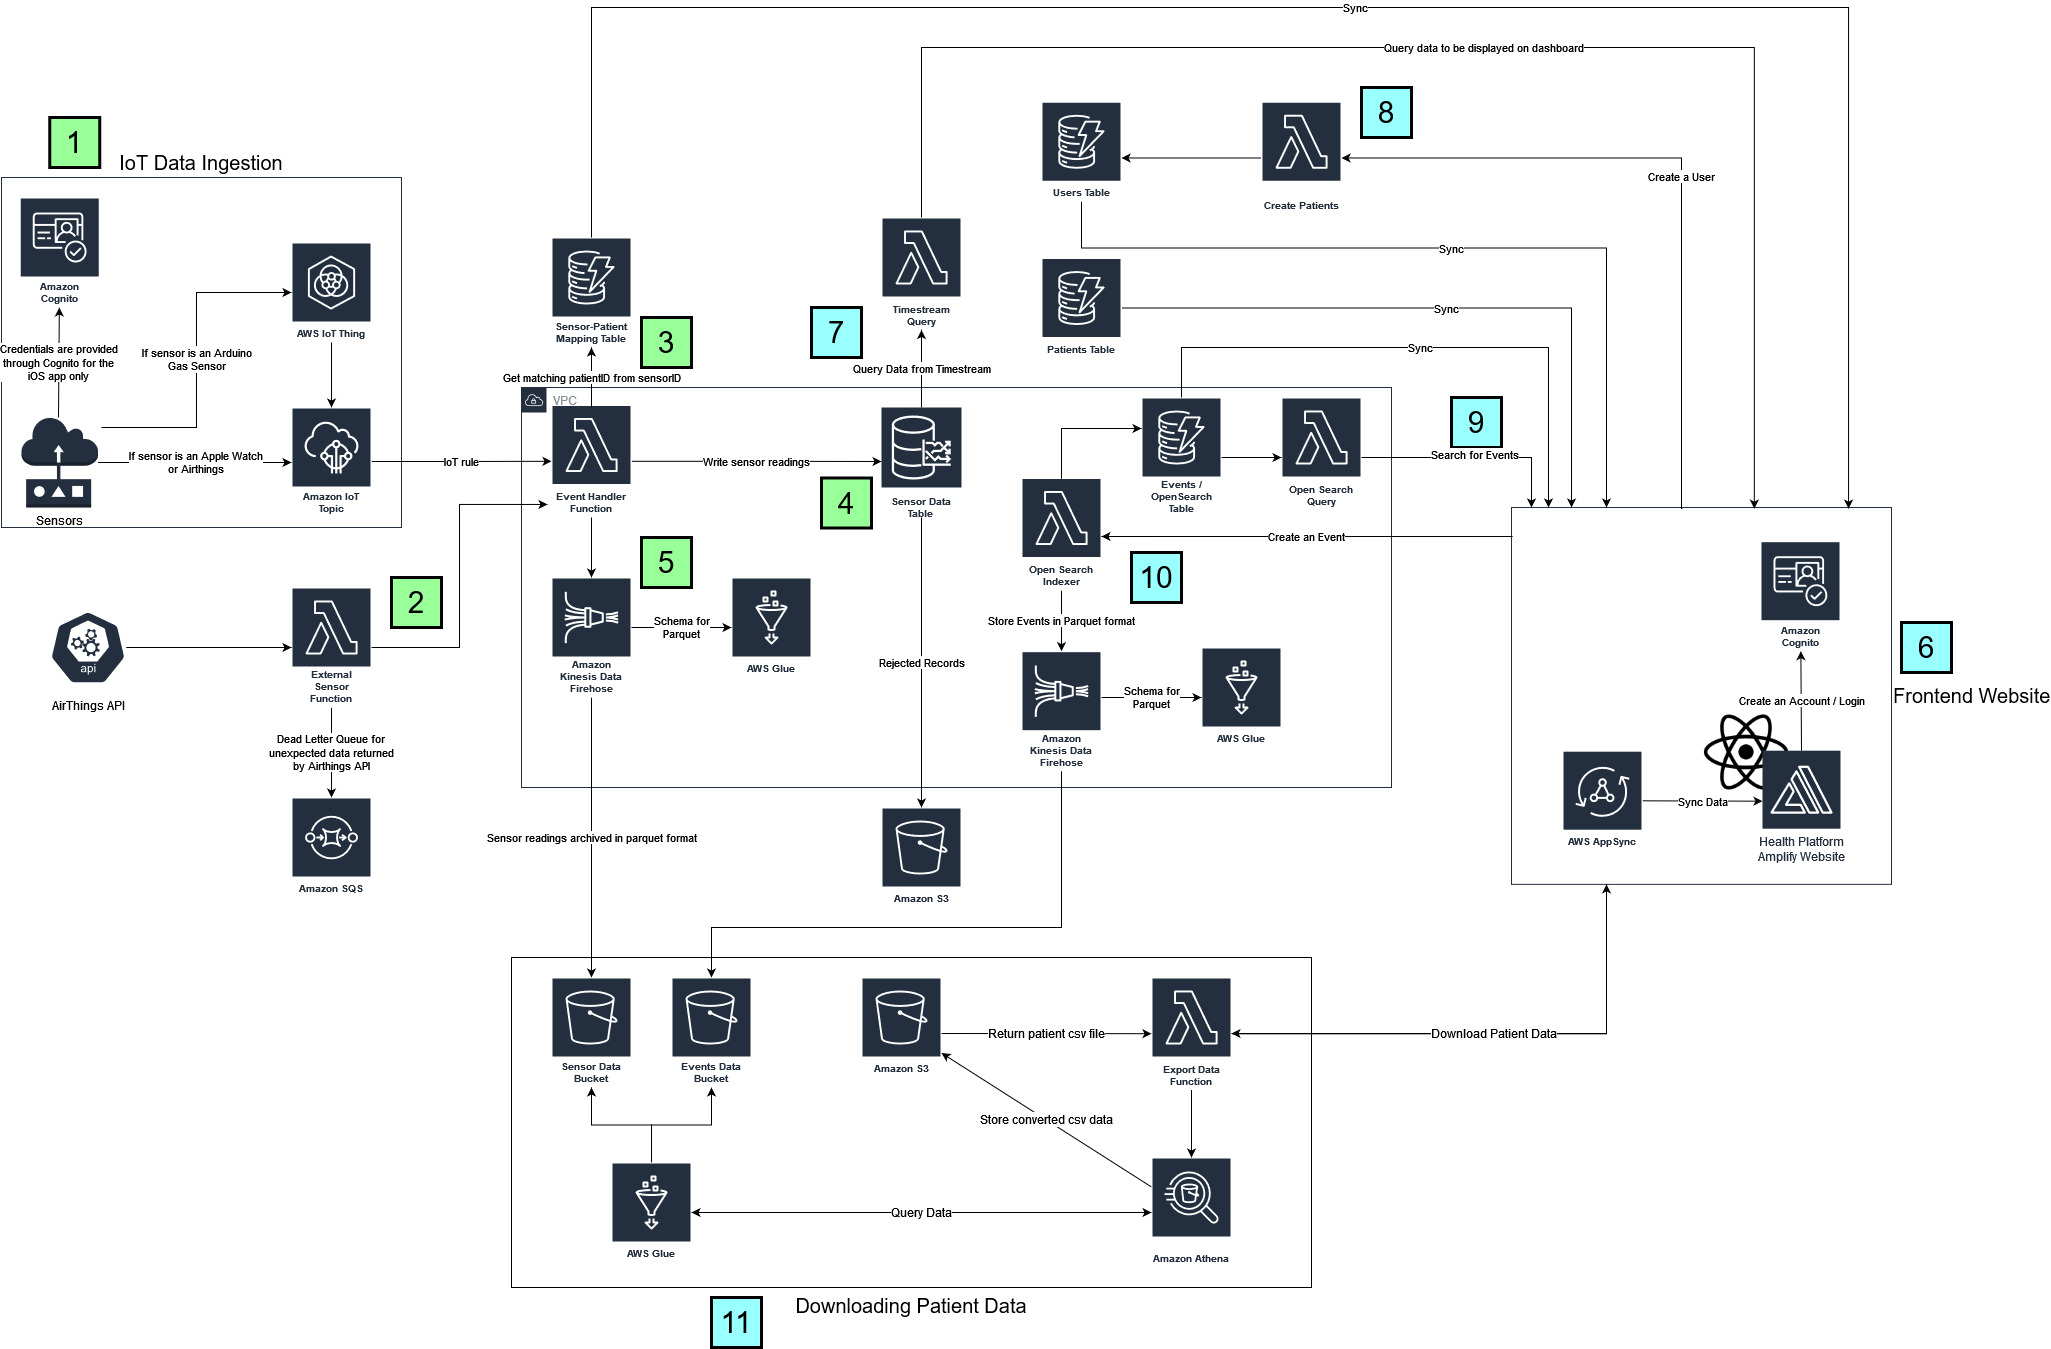
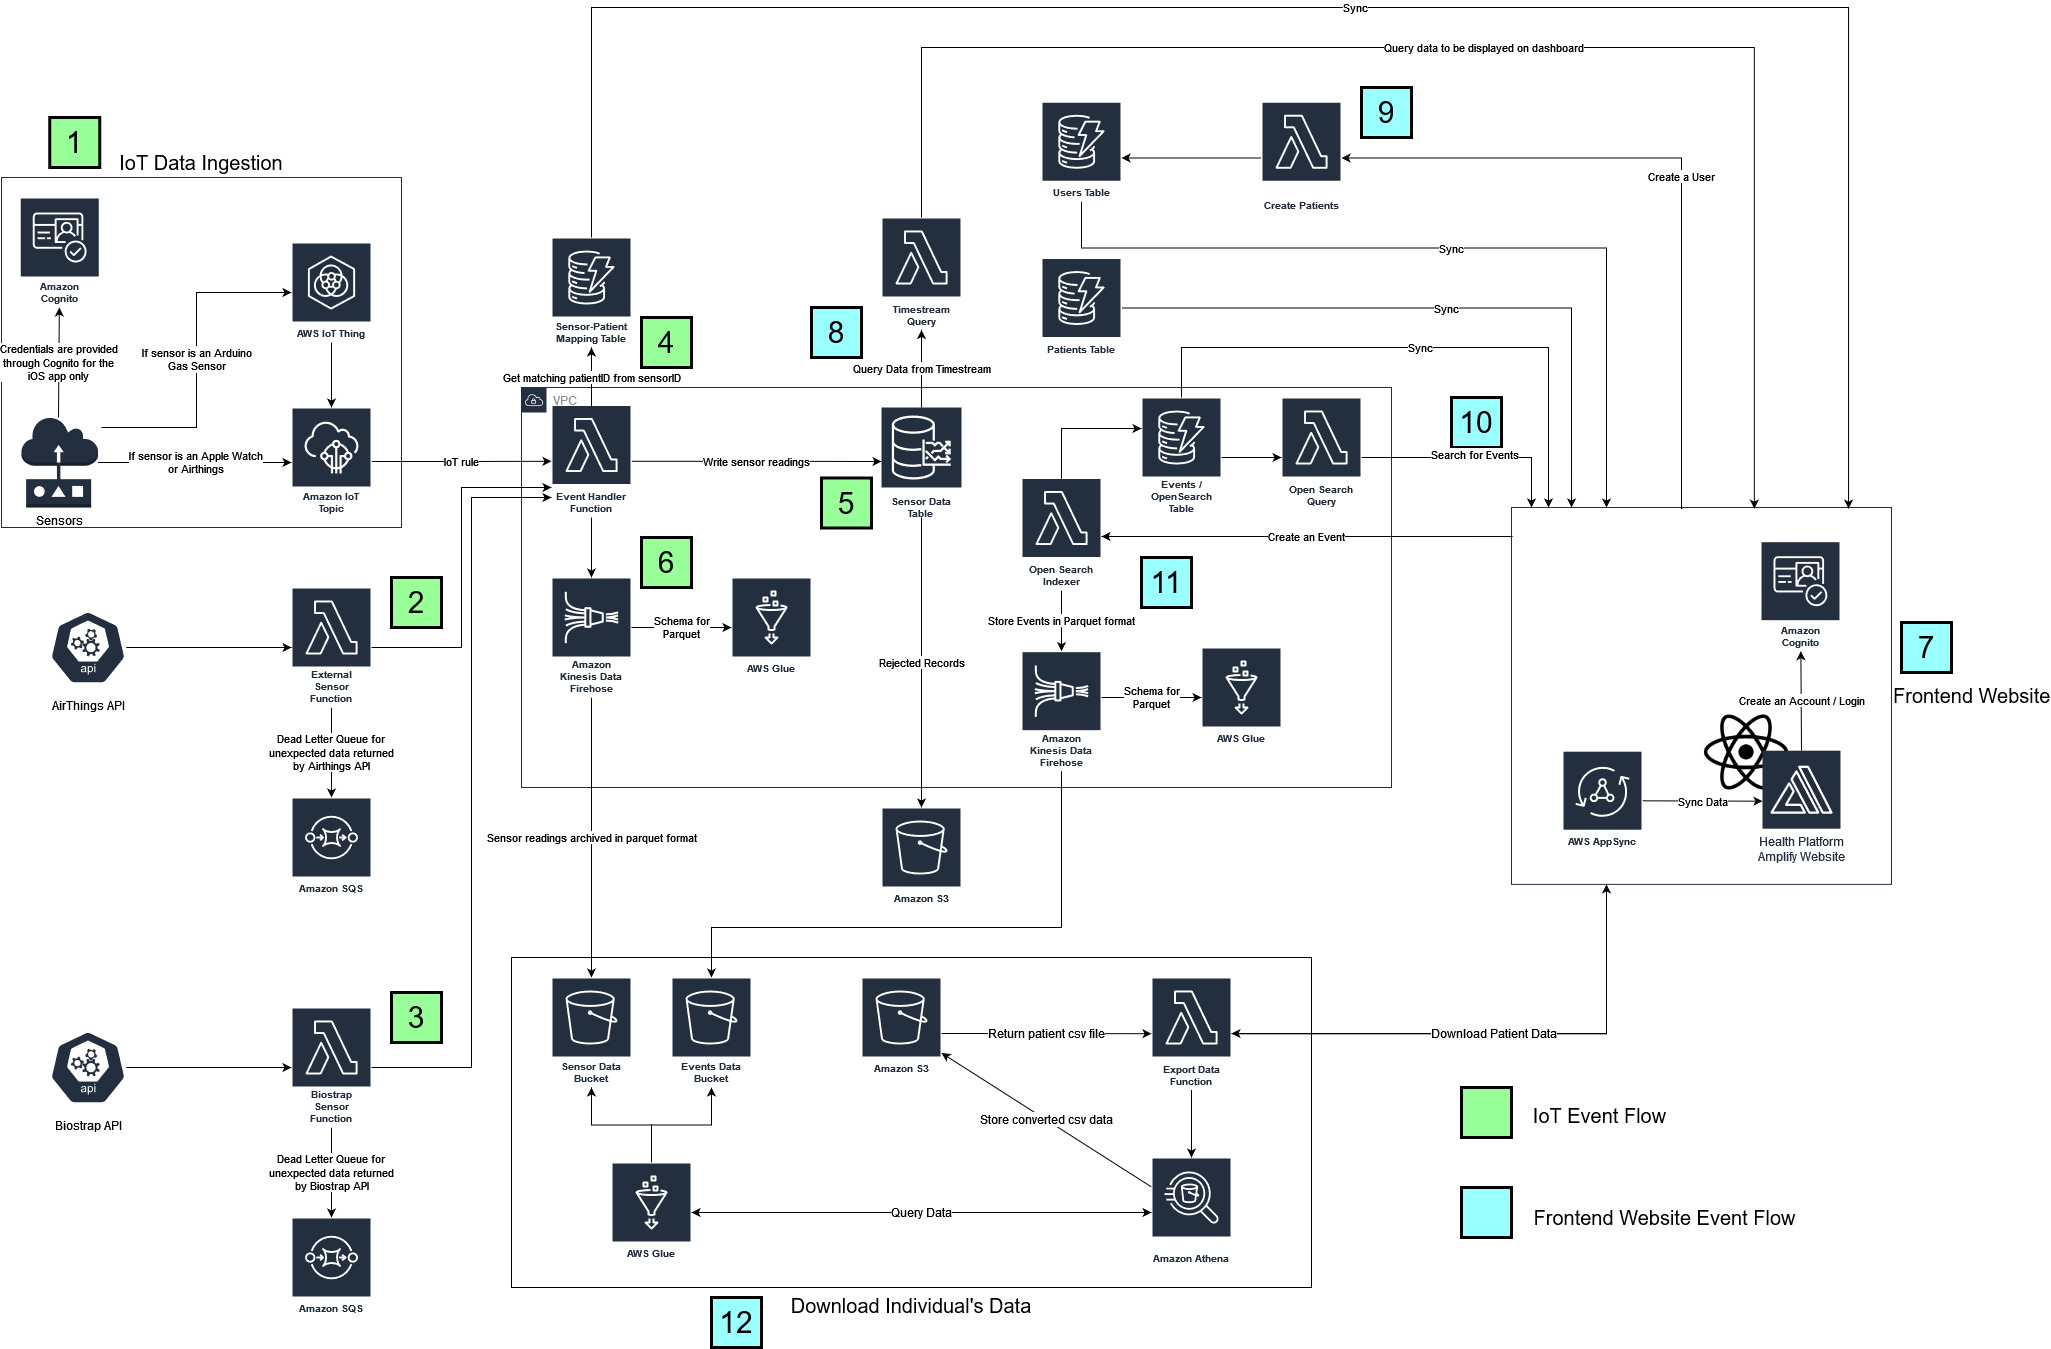
Adding Biostrap Integration

diff --git a/webapp/frontend/src/components/patients/ManageSensors.tsx b/webapp/frontend/src/components/patients/ManageSensors.tsx
@@ -28,10 +28,12 @@ const MenuProps = {
 };
 
 export const AIRTHINGS_WAVEPLUS = "AIRTHINGS_WAVEPLUS";
+export const BIOSTRAP = "BIOSTRAP"
 export const SENSORS = [
     {"name": "Apple Watch", "id": "AppleWatch"},
     {"name": "Gas Sensor", "id": "GasSensor"},
     {"name": "Airthings Wave Plus", "id": AIRTHINGS_WAVEPLUS},
+    {"name": "Biostrap", "id": BIOSTRAP},
 ];
 
 function getStyles(name: any, personName: any, theme: any) {
@@ -113,6 +115,13 @@ export const ManageSensors = (props: { patientId: string, patient: PatientsDetai
             } else if (sensorTypes.includes(AIRTHINGS_WAVEPLUS)) {
                 newSensor.sensor_types = [AIRTHINGS_WAVEPLUS]
                 newSensor.watermark = new Date(0).toISOString();
+                newSensor.client_key = clientKey;
+                newSensor.secret_key = clientSecretKey;
+            } else if (sensorTypes.includes(BIOSTRAP)) {
+                const now = new Date()  
+                const secondsSinceEpoch = Math.round(now.getTime() / 1000)
+                newSensor.sensor_types = [BIOSTRAP]
+                newSensor.watermark = `${secondsSinceEpoch}000`;
                 newSensor.client_key = clientKey;
                 newSensor.secret_key = clientSecretKey;
             }
@@ -326,6 +335,34 @@ export const ManageSensors = (props: { patientId: string, patient: PatientsDetai
                                             <TextField
                                                 required
                                                 label="Secret Key"
+                                                value={clientSecretKey}
+                                                onChange={(e) => {
+                                                    setClientSecretKey(e.target.value);
+                                                }}
+                                            />
+                                        </Box>
+                                    </Box>
+                                )
+                            }
+                            {
+                                sensorTypes.includes(BIOSTRAP) && (
+                                    <Box sx={{ mt: 3}}>
+                                        <hr />
+                                        <Box sx={{ mt: 1}}>
+                                            <Box sx={{ fontSize: 14, mb: 1 }}>
+                                                Head to the <a href="https://app.biostrap.com/" target="_blank" rel="noreferrer">Biostrap Dashboard</a> to find your account email and organization API Key for the Health Platform to automatically begin retrieving data..
+                                            </Box>
+                                            <TextField
+                                                required
+                                                label="Biostrap Account Email"
+                                                value={clientKey}
+                                                onChange={(e) => {
+                                                    setClientKey(e.target.value);
+                                                }}
+                                            />
+                                            <TextField
+                                                required
+                                                label="Organization API Key"
                                                 value={clientSecretKey}
                                                 onChange={(e) => {
                                                     setClientSecretKey(e.target.value);

diff --git a/webapp/frontend/src/components/dashboard/Dashboard.tsx b/webapp/frontend/src/components/dashboard/Dashboard.tsx
@@ -19,6 +19,7 @@ import ReactApexChart from "react-apexcharts";
 import { useHistory, useLocation } from 'react-router-dom';
 import queryString from 'query-string';
 import { WAVEPLUS } from './sensor_config/airthings';
+import { BIOSTRAP } from './sensor_config/biostrap';
 import { pt } from 'date-fns/locale';
 
 const DEFAULT_HOURS_AGO = 12;
@@ -146,6 +147,10 @@ export const Dashboard = (props: {
 
                 if (st === "AIRTHINGS_WAVEPLUS") {
                     for (const s of WAVEPLUS.sensors) {
+                        modules.push(s);
+                    }
+                } else if (st === "BIOSTRAP") {
+                    for (const s of BIOSTRAP.sensors) {
                         modules.push(s);
                     }
                 } else {

diff --git a/webapp/backend/src/biostrap-sensor-handler.ts b/webapp/backend/src/biostrap-sensor-handler.ts
@@ -155,13 +155,12 @@ const processBiostrapData = async (sensor: Sensor, user_id: string): Promise<any
                             sensor.watermark = data["timestamp"].toString();
                             const sensorDao = new SensorDao(ddb);
                             await sensorDao.updateSensor(sensor);
-
-                            resolve(true);
                         } else {
                             console.log("Time is before high watermark");
                             resolve(false);
                         }
-                    }  
+                    }
+                    resolve(true)  
                 }
             });
         });

diff --git a/webapp/frontend/src/components/dashboard/sensor_config/biostrap.ts b/webapp/frontend/src/components/dashboard/sensor_config/biostrap.ts
@@ -1,0 +1,20 @@
+export const BIOSTRAP = {
+    sensors: [
+        {
+            "sensor_type": "HeartRate",
+            "sensor_name": "Heart Rate",
+        },
+        {
+            "sensor_type": "HeartRateVariability",
+            "sensor_name": "Heart Rate Variability",
+        },
+        {
+            "sensor_type": "RespiratoryRate",
+            "sensor_name": "Respiratory Rate",
+        },
+        {
+            "sensor_type": "OxygenSaturation",
+            "sensor_name": "Oxygen Saturation",
+        },
+    ],
+}

diff --git a/webapp/frontend/src/components/simulate/Simulate.tsx b/webapp/frontend/src/components/simulate/Simulate.tsx
@@ -36,6 +36,8 @@ const SIMULATE_TYPES = [
     {"name": "VOC", "id": "VOC"},
     {"name": "PM1", "id": "PM1"},
     {"name": "PM2.5", "id": "PM2.5"},
+    {"name": "Respiratory Rate", "id": "RespiratoryRate"},
+    {"name": "Oxygen Saturation", "id": "OxygenSaturation"},
 ];
 
 export const Simulate = (props: { 

diff --git a/docs/ArchitectureDeepDive.md b/docs/ArchitectureDeepDive.md
@@ -14,22 +14,24 @@ The Architecture diagram gives an insight into two different event flows: 1) IoT
 
 2. The Airthings API is called every 5 minutes by a Lambda function. The authentication occurs via a token that is obtained at the Airthings integration APIs. 
 
-3. The incoming data’s sensor id is mapped with the corresponding patient ID stored in a DynamoDB table; which is manually populated at the web interface. 
+3. The Biostrap API is called every 5 minutes by a Lambda function. The authentication occurs via a orgnization API key from the Biostrap dashboard. 
 
-4. The data along with the matching patient ID is written into the Amazon Timestream database.
+4. The incoming data’s sensor id is mapped with the corresponding patient ID stored in a DynamoDB table; which is manually populated at the web interface. 
 
-5. The data along with the matching patient ID is also converted to parquet format via Kinesis Firehose and the conversion schema is stored in a Glue table. The parquet file is saved in an S3 bucket with the path data/year/month/day/hour/{filename}, to create a data lake with the patient biometric information to later use in the model creation. 
+5. The data along with the matching patient ID is written into the Amazon Timestream database.
+
+6. The data along with the matching patient ID is also converted to parquet format via Kinesis Firehose and the conversion schema is stored in a Glue table. The parquet file is saved in an S3 bucket with the path data/year/month/day/hour/{filename}, to create a data lake with the patient biometric information to later use in the model creation. 
 
 ### UI User Initiated Event Flow
 
-6. The frontend website enables managing the user roles: admins and caregivers, who are the ones effectively authenticating into the application that is based on the Amazon Cognito user pool. The caregivers register the patients and their device ID into the system, which is stored in Amazon Timestream and S3. The solution backend API is based on GraphQL leveraging AWS Appsync
+7. The frontend website enables managing the user roles: admins and caregivers, who are the ones effectively authenticating into the application that is based on the Amazon Cognito user pool. The caregivers register the patients and their device ID into the system, which is stored in Amazon Timestream and S3. The solution backend API is based on GraphQL leveraging AWS Appsync
 
-7. Whenever the user clicks the search button to update the dashboard, a Lambda function queries Timestream for the data based on the timeframe parameters specified by the user. This displays the most up-to-date data for the user to see.
+8. Whenever the user clicks the search button to update the dashboard, a Lambda function queries Timestream for the data based on the timeframe parameters specified by the user. This displays the most up-to-date data for the user to see.
 
-8. Newly created users are stored in the DynamoDB users table. Existing users and their information such as the patients they manage are also stored in this table.
+9. Newly created users are stored in the DynamoDB users table. Existing users and their information such as the patients they manage are also stored in this table.
 
-9. Indexed events are searched using OpenSearch which will display the search results on the frontend website for the user. 
+10. Indexed events are searched using OpenSearch which will display the search results on the frontend website for the user. 
 
-10. Events created using the website are indexed by Amazon OpenSearch so that they can be searched by users later. OpenSearch is a search engine that will allow the user to match search keywords with event data. The event data is also converted to parquet format via Kinesis Firehose and the conversion schema is stored in a Glue table. The parquet file is saved in an S3 bucket with the path data/year/month/day/hour/{filename}, to create a data lake with the patient event data to later use in the model creation. 
+11. Events created using the website are indexed by Amazon OpenSearch so that they can be searched by users later. OpenSearch is a search engine that will allow the user to match search keywords with event data. The event data is also converted to parquet format via Kinesis Firehose and the conversion schema is stored in a Glue table. The parquet file is saved in an S3 bucket with the path data/year/month/day/hour/{filename}, to create a data lake with the patient event data to later use in the model creation. 
 
-11. Users can download all of a patient’s sensor readings via a button on the frontend website. A Glue database points to the data in the Health Platform Metrics S3 bucket and Health Platform Events S3 bucket. A GraphQL query then triggers a Lambda function which triggers Athena to query the Glue database. The patient data is exported to the Patient Export Data bucket and returned as a CSV file available for download through a pre-signed S3 URL link that expires after 5 minutes.
+12. Users can download all of a patient’s sensor readings via a button on the frontend website. A Glue database points to the data in the Health Platform Metrics S3 bucket and Health Platform Events S3 bucket. A GraphQL query then triggers a Lambda function which triggers Athena to query the Glue database. The patient data is exported to the Patient Export Data bucket and returned as a CSV file available for download through a pre-signed S3 URL link that expires after 5 minutes.
